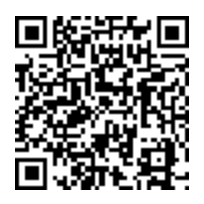
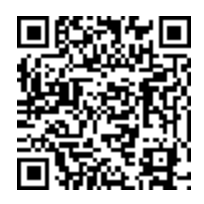
final

diff --git a/portfolio.html b/portfolio.html
@@ -88,12 +88,12 @@
     <div class="container">
         <div class="row">
             <div class="col-lg-6 "><a style="color: black;font-weight: 100;
-        " href="http://online.mobissue.com/wple/eqyh/"><p style="font-family: 'HelveticaNeue-UltraLight', 'Helvetica Neue UltraLight', 'Helvetica Neue', 'Roboto',  sans-serif ;font-weight: 100;
+        " href="http://online.mobissue.com/wple/vfeb/"><p style="font-family: 'HelveticaNeue-UltraLight', 'Helvetica Neue UltraLight', 'Helvetica Neue', 'Roboto',  sans-serif ;font-weight: 100;
 ">SELECTED PORTFOLIO</p></a>
-<iframe style='width:620px;height:351px' src='https://s3.amazonaws.com/online.mobissue.com/wple/eqyh/index.html'  seamless='seamless' scrolling='no' frameborder='0' allowtransparency='true' allowfullscreen='true' ></iframe><br><a href="https://www.yumpu.com/en/document/view/67536472/eric-lee-selected-portfolio" title="Eric Lee Selected Portfolio " target="_blank"></a>
+<iframe style='width:620px;height:351px' src='https://s3.amazonaws.com/online.mobissue.com/wple/vfeb/index.html'  seamless='seamless' scrolling='no' frameborder='0' allowtransparency='true' allowfullscreen='true' ></iframe><br><a href="https://www.yumpu.com/en/document/view/67536472/eric-lee-selected-portfolio" title="Eric Lee Selected Portfolio " target="_blank"></a>
 
 
-<p style="padding-bottom: 20px"><a class="linkedin" href="http://online.mobissue.com/wple/eqyh/" style="color:black !important;font-family: 'HelveticaNeue-UltraLight', 'Helvetica Neue UltraLight', 'Helvetica Neue', 'Roboto',  sans-serif ;font-weight: 100;
+<p style="padding-bottom: 20px"><a class="linkedin" href="http://online.mobissue.com/wple/vfeb/" style="color:black !important;font-family: 'HelveticaNeue-UltraLight', 'Helvetica Neue UltraLight', 'Helvetica Neue', 'Roboto',  sans-serif ;font-weight: 100;
 ">Click for full-screen view</a></p>
 
 

diff --git a/projects.html b/projects.html
@@ -918,7 +918,7 @@
         <div class="content">
             <a href="projectwork.html#43">
                 <div class="content-overlay"></div>
-                    <img class="content-image " alt="logo"style="background-image: url(images/loading.gif);"  src="images/40. Day Spa/spacircle.png"
+                    <img class="content-image " alt="logo"style="background-image: url(images/loading.gif);"  src="images/spasquare2.jpg"
                         loading="lazy"     width="200" height="200">
                 <div class="content-details fadeIn-bottom">
                             <h3 class ="content-title">Day Spa</h3>
